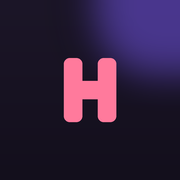
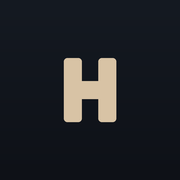
refactor: update design system, theme, and component structure

diff --git a/lib/views/sections/contact_section.dart b/lib/views/sections/contact_section.dart
@@ -1,11 +1,11 @@
 import 'package:flutter/material.dart';
-import 'package:haadiya_portfolio/widgets/app_button.dart';
-import 'package:haadiya_portfolio/core/constants.dart';
-import 'package:haadiya_portfolio/widgets/hover.dart';
-import 'package:haadiya_portfolio/viewmodels/nav_vm.dart';
-import 'package:haadiya_portfolio/core/responsive.dart';
-import 'package:haadiya_portfolio/widgets/reveal.dart';
-import 'package:haadiya_portfolio/core/theme.dart';
+import '../../core/constants.dart';
+import '../../core/responsive.dart';
+import '../../core/theme.dart';
+import '../../viewmodels/nav_vm.dart';
+import '../../widgets/app_button.dart';
+import '../../widgets/pressable.dart';
+import '../../widgets/reveal.dart';
 
 class ContactSection extends StatelessWidget {
   const ContactSection({super.key});
@@ -18,20 +18,20 @@ class ContactSection extends StatelessWidget {
             child: Column(crossAxisAlignment: CrossAxisAlignment.start, children: [
           Text(K.contactTitle, style: head(context, context.mob ? 40 : 84)),
           const SizedBox(height: 36),
-          Hover((h) => GestureDetector(
+          Pressable(
               onTap: openMail,
-              child: AnimatedDefaultTextStyle(
+              builder: (h, f) => AnimatedDefaultTextStyle(
                   duration: K.ms,
-                  style: head(context, context.mob ? 22 : 36, h ? p.accent : p.ink).copyWith(decoration: TextDecoration.underline, decorationColor: h ? p.accent : p.muted),
-                  child: const Text(K.email)))),
+                  style: head(context, context.mob ? 24 : 36, h || f ? p.accent : p.ink).copyWith(decoration: TextDecoration.underline, decorationColor: h || f ? p.accent : p.muted),
+                  child: const Text(K.email))),
           const SizedBox(height: 32),
-          Wrap(spacing: 14, runSpacing: 14, children: [
+          Wrap(spacing: 16, runSpacing: 16, children: [
             AppButton('LinkedIn', () => openUrl(K.linkedin), filled: false),
             AppButton('GitHub', () => openUrl(K.github), filled: false),
           ]),
           const SizedBox(height: 80),
           Divider(color: p.line),
-          Padding(padding: const EdgeInsets.symmetric(vertical: 20), child: Text(K.footer, style: TextStyle(color: p.muted))),
+          Padding(padding: const EdgeInsets.symmetric(vertical: 24), child: Text(K.footer, style: TextStyle(color: p.muted))),
         ])));
   }
 }

diff --git a/lib/widgets/chips.dart b/lib/widgets/chips.dart
@@ -1,20 +1,20 @@
 import 'package:flutter/material.dart';
-import 'package:haadiya_portfolio/core/constants.dart';
-import 'package:haadiya_portfolio/core/theme.dart';
+import '../core/constants.dart';
+import '../core/theme.dart';
 import 'hover.dart';
 
-/// Quiet outlined tag used on cards.
+/// Quiet outlined tag used on cards, set in the mono face.
 class TagChip extends StatelessWidget {
   final String label;
   const TagChip(this.label, {super.key});
   @override
   Widget build(BuildContext context) => Container(
-      padding: const EdgeInsets.symmetric(horizontal: 12, vertical: 6),
-      decoration: BoxDecoration(borderRadius: BorderRadius.circular(20), border: Border.all(color: context.p.line)),
-      child: Text(label, style: TextStyle(fontSize: 13, color: context.p.soft)));
+      padding: const EdgeInsets.symmetric(horizontal: 12, vertical: 8),
+      decoration: BoxDecoration(borderRadius: BorderRadius.circular(8), border: Border.all(color: context.p.line)),
+      child: Text(label, style: mono(context, 12, context.p.soft)));
 }
 
-/// Larger chip that lights up on hover, used in the stack section.
+/// Larger chip for the stack section: a surface step and a clearer hairline on hover.
 class SkillChip extends StatelessWidget {
   final String label;
   const SkillChip(this.label, {super.key});
@@ -23,9 +23,11 @@ class SkillChip extends StatelessWidget {
     final p = context.p;
     return Hover((h) => AnimatedContainer(
         duration: K.ms,
-        transform: Matrix4.translationValues(0, h ? -3 : 0, 0),
-        padding: const EdgeInsets.symmetric(horizontal: 20, vertical: 12),
-        decoration: BoxDecoration(color: h ? p.accent : p.card, borderRadius: BorderRadius.circular(40), border: Border.all(color: h ? p.accent : p.line)),
-        child: Text(label, style: TextStyle(fontWeight: FontWeight.w600, color: h ? p.onAccent : p.ink))));
+        padding: const EdgeInsets.symmetric(horizontal: 16, vertical: 12),
+        decoration: BoxDecoration(
+            color: h ? Color.alphaBlend(p.ink.withOpacity(.05), p.card) : p.card,
+            borderRadius: BorderRadius.circular(10),
+            border: Border.all(color: h ? p.muted.withOpacity(.6) : p.line)),
+        child: Text(label, style: TextStyle(fontWeight: FontWeight.w500, color: p.ink))));
   }
 }

diff --git a/lib/core/constants.dart b/lib/core/constants.dart
@@ -9,9 +9,8 @@ class K {
   static const email = 'haadiyact@gmail.com';
   static const linkedin = 'https://www.linkedin.com/in/haadiya-ct-47775621b/';
   static const github = 'https://github.com/haadiyaa';
-  static const tagline = 'I build Flutter apps that stay fast and usable offline, from restaurant ERPs to live analytics dashboards.';
-  static const contactTitle = 'Let\'s build something\npeople enjoy using.';
-  static const footer = 'Haadiya CT, Kozhikode, Kerala. Built with Flutter.';
+  static const contactTitle = 'Need a Flutter developer?\nGet in touch';
+  static const footer = 'Haadiya CT, Kozhikode, Kerala. Built with Flutter';
   static const introLines = [
     "BUILDING *CROSS-PLATFORM* SCALABLE APPLICATIONS.",
     'FOCUSED ON CLEAN CODE, SEAMLESS INTEGRATIONS, AND INTUITIVE USER EXPERIENCES.',
@@ -46,12 +45,14 @@ class K {
 
   static const mobileBp = 700.0, wideBp = 900.0, tabletBp = 1100.0, maxWidth = 1280.0, gap = 24.0;
 
+  // One neutral ramp tinted toward the navy of her blazer, warm off-white text from her hijab,
+  // and a single muted sand accent taken from the same fabric. Used rarely.
   static const dark = Palette(
-      bg: Color(0xFF130F1C), card: Color(0xFF1C1628), ink: Color(0xFFF4EEFF), soft: Color(0xFFC9BEDD),
-      muted: Color(0xFF9A8FB3), line: Color(0x1FFFFFFF), accent: Color(0xFFFF7A9C), onAccent: Color(0xFF1A0B12), glow: Color(0xFF7C5CFF));
+      bg: Color(0xFF0E1117), card: Color(0xFF151A22), ink: Color(0xFFECE9E2), soft: Color(0xFFB4B9C4),
+      muted: Color(0xFF858B99), line: Color(0x1AECE9E2), accent: Color(0xFFD8C3A5), onAccent: Color(0xFF17130B), glow: Color(0xFF1B2436));
   static const light = Palette(
-      bg: Color(0xFFF7F4FC), card: Color(0xFFFFFFFF), ink: Color(0xFF1B1230), soft: Color(0xFF4A3F63),
-      muted: Color(0xFF7A6F92), line: Color(0x1F1B1230), accent: Color(0xFFD81B60), onAccent: Color(0xFFFFFFFF), glow: Color(0xFFFFA8C5));
+      bg: Color(0xFFF4F2EE), card: Color(0xFFFFFFFF), ink: Color(0xFF15181F), soft: Color(0xFF444A57),
+      muted: Color(0xFF6B7180), line: Color(0x1A15181F), accent: Color(0xFF7E5F2B), onAccent: Color(0xFFFFFFFF), glow: Color(0xFFDDE2EC));
 
   static const stats = [Stat('3+', 'years shipping Flutter'), Stat('5+', 'apps built'), Stat('4', 'platforms, one codebase')];
 

diff --git a/lib/widgets/hero_intro.dart b/lib/widgets/hero_intro.dart
@@ -10,10 +10,8 @@ class HeroIntro extends StatelessWidget {
   const HeroIntro(this.progress, {super.key});
   @override
   Widget build(BuildContext context) {
-    final pal = context.p,
-        size = (context.w * .024).clamp(18.0, 34.0).toDouble();
-    final base = head(context, size, pal.ink.withOpacity(.92)).copyWith(
-        fontWeight: FontWeight.w500, height: 1.35, letterSpacing: -size * .01);
+    final pal = context.p, size = (context.w * .024).clamp(18.0, 34.0).toDouble();
+    final base = head(context, size, pal.ink.withOpacity(.92)).copyWith(fontWeight: FontWeight.w500, height: 1.35, letterSpacing: 0);
     return Padding(
         padding: EdgeInsets.symmetric(horizontal: context.pad),
         child: Column(mainAxisSize: MainAxisSize.min, children: [
@@ -25,20 +23,10 @@ class HeroIntro extends StatelessWidget {
                   child: Transform.translate(
                       offset: Offset(0, (1 - t) * 28),
                       child: Text.rich(
-                          TextSpan(
-                            style: TextStyle(fontSize: context.mob ? 20 : 30),
-                            children: [
-                              for (final (text, highlight)
-                                  in marked(K.introLines[i]))
-                                TextSpan(
-                                    text: text,
-                                    style: highlight
-                                        ? TextStyle(
-                                            color: pal.accent,
-                                            fontWeight: FontWeight.w700)
-                                        : null),
-                            ],
-                          ),
+                          TextSpan(children: [
+                            for (final (text, highlight) in marked(K.introLines[i]))
+                              TextSpan(text: text, style: highlight ? TextStyle(color: pal.accent, fontWeight: FontWeight.w600) : null),
+                          ]),
                           textAlign: TextAlign.center,
                           style: base)));
             }),

diff --git a/lib/widgets/app_button.dart b/lib/widgets/app_button.dart
@@ -1,8 +1,9 @@
 import 'package:flutter/material.dart';
-import 'package:haadiya_portfolio/core/constants.dart';
-import 'package:haadiya_portfolio/core/theme.dart';
-import 'hover.dart';
+import '../core/constants.dart';
+import '../core/theme.dart';
+import 'pressable.dart';
 
+/// Filled buttons use the off-white of the palette with dark text, outlined ones a hairline.
 class AppButton extends StatelessWidget {
   final String label;
   final VoidCallback onTap;
@@ -11,16 +12,16 @@ class AppButton extends StatelessWidget {
   @override
   Widget build(BuildContext context) {
     final p = context.p;
-    return Hover((h) => GestureDetector(
+    return Pressable(
         onTap: onTap,
-        child: AnimatedContainer(
+        builder: (h, f) => AnimatedContainer(
             duration: K.ms,
-            padding: const EdgeInsets.symmetric(horizontal: 24, vertical: 15),
-            transform: Matrix4.translationValues(0, h ? -3 : 0, 0),
+            padding: const EdgeInsets.symmetric(horizontal: 24, vertical: 16),
+            transform: Matrix4.translationValues(0, h ? -2 : 0, 0),
             decoration: BoxDecoration(
-                color: filled ? (h ? p.ink : p.accent) : Colors.transparent,
-                borderRadius: BorderRadius.circular(40),
-                border: Border.all(color: filled ? Colors.transparent : (h ? p.accent : p.line))),
-            child: Text(label, style: TextStyle(fontWeight: FontWeight.w600, color: filled ? (h ? p.bg : p.onAccent) : p.ink)))));
+                color: filled ? (h ? p.soft : p.ink) : Colors.transparent,
+                borderRadius: BorderRadius.circular(10),
+                border: Border.all(color: f ? p.accent : (filled ? Colors.transparent : (h ? p.muted : p.line)), width: f ? 2 : 1)),
+            child: Text(label, style: TextStyle(fontWeight: FontWeight.w500, color: filled ? p.bg : p.ink))));
   }
 }

diff --git a/lib/widgets/timeline_item.dart b/lib/widgets/timeline_item.dart
@@ -1,7 +1,7 @@
 import 'package:flutter/material.dart';
-import 'package:haadiya_portfolio/models/models.dart';
-import 'package:haadiya_portfolio/core/responsive.dart';
-import 'package:haadiya_portfolio/core/theme.dart';
+import '../core/responsive.dart';
+import '../core/theme.dart';
+import '../models/models.dart';
 
 class TimelineItem extends StatelessWidget {
   final Job job;
@@ -11,21 +11,21 @@ class TimelineItem extends StatelessWidget {
   Widget build(BuildContext context) {
     final p = context.p;
     return Container(
-        margin: const EdgeInsets.only(left: 6),
+        margin: const EdgeInsets.only(left: 8),
         padding: const EdgeInsets.only(left: 32, bottom: 48),
         decoration: BoxDecoration(border: Border(left: BorderSide(color: p.line))),
         child: Stack(clipBehavior: Clip.none, children: [
           Positioned(
-              left: -39, top: 6,
+              left: -40, top: 4,
               child: Container(
-                  width: 14, height: 14,
+                  width: 16, height: 16,
                   decoration: BoxDecoration(
                       shape: BoxShape.circle,
                       color: highlight ? p.accent : p.bg,
                       border: Border.all(color: highlight ? p.accent : p.muted, width: 2),
-                      boxShadow: highlight ? [BoxShadow(color: p.accent.withValues(alpha: .5), blurRadius: 14)] : []))),
+))),
           Column(crossAxisAlignment: CrossAxisAlignment.start, children: [
-            Text(job.when, style: TextStyle(color: p.accent, fontWeight: FontWeight.w600)),
+            Text(job.when, style: mono(context, 14)),
             const SizedBox(height: 8),
             Text(job.role, style: head(context, context.mob ? 24 : 30)),
             const SizedBox(height: 4),

diff --git a/lib/widgets/project_card.dart b/lib/widgets/project_card.dart
@@ -20,18 +20,18 @@ class ProjectCard extends StatelessWidget {
         child: Hover((h) => AnimatedContainer(
             duration: K.ms,
             curve: Curves.easeOut,
-            transform: Matrix4.translationValues(0, h ? -6 : 0, 0),
+            transform: Matrix4.translationValues(0, h ? -4 : 0, 0),
             height: height ?? context.cardH,
             padding: EdgeInsets.all(context.mob ? 24 : 32),
             decoration: BoxDecoration(
-                color: p.card,
-                borderRadius: BorderRadius.circular(28),
-                border: Border.all(color: h ? p.accent.withOpacity(.6) : p.line),
-                boxShadow: h ? [BoxShadow(color: p.accent.withOpacity(.12), blurRadius: 60)] : []),
+                // Hover is a small surface step and a clearer hairline. No glow.
+                color: h ? Color.alphaBlend(p.ink.withOpacity(.03), p.card) : p.card,
+                borderRadius: BorderRadius.circular(16),
+                border: Border.all(color: h ? p.muted.withOpacity(.5) : p.line)),
             child: Column(crossAxisAlignment: CrossAxisAlignment.start, children: [
               Row(mainAxisAlignment: MainAxisAlignment.spaceBetween, children: [
-                Text(project.kind, style: TextStyle(color: p.accent, fontWeight: FontWeight.w600)),
-                AnimatedRotation(turns: h ? -.125 : 0, duration: K.ms, child: Icon(Icons.arrow_forward, color: h ? p.accent : p.muted)),
+                Text(project.kind, style: mono(context, 13)),
+                AnimatedRotation(turns: h ? -.125 : 0, duration: K.ms, child: Icon(Icons.arrow_forward, size: 20, color: h ? p.accent : p.muted)),
               ]),
               const SizedBox(height: 44),
               Text(project.name, style: head(context, 32)),

diff --git a/lib/widgets/backdrop.dart b/lib/widgets/backdrop.dart
@@ -1,6 +1,6 @@
 import 'dart:math' as math;
 import 'package:flutter/material.dart';
-import 'package:haadiya_portfolio/core/theme.dart';
+import '../core/theme.dart';
 
 class _Orbs extends CustomPainter {
   final double t;
@@ -11,8 +11,8 @@ class _Orbs extends CustomPainter {
     void orb(Offset o, double r, Color col) => c.drawCircle(o, r,
         Paint()..shader = RadialGradient(colors: [col, Colors.transparent]).createShader(Rect.fromCircle(center: o, radius: r)));
     final k = t * 2 * math.pi;
-    orb(Offset(s.width * .82 + math.cos(k) * 90, s.height * .18 + math.sin(k) * 60), 440, a.withValues(alpha: .14));
-    orb(Offset(s.width * .08 + math.sin(k) * 70, s.height * .5 + math.cos(k) * 90), 380, b.withValues(alpha: .18));
+    orb(Offset(s.width * .82 + math.cos(k) * 90, s.height * .18 + math.sin(k) * 60), 440, a.withOpacity(.07));
+    orb(Offset(s.width * .08 + math.sin(k) * 70, s.height * .5 + math.cos(k) * 90), 380, b.withOpacity(.7));
   }
 
   @override
@@ -25,7 +25,7 @@ class _Glow extends CustomPainter {
   _Glow(this.o, this.col);
   @override
   void paint(Canvas c, Size s) => c.drawCircle(o, 260,
-      Paint()..shader = RadialGradient(colors: [col.withValues(alpha: .10), Colors.transparent]).createShader(Rect.fromCircle(center: o, radius: 260)));
+      Paint()..shader = RadialGradient(colors: [col.withOpacity(.05), Colors.transparent]).createShader(Rect.fromCircle(center: o, radius: 260)));
   @override
   bool shouldRepaint(_Glow o) => true;
 }

diff --git a/lib/views/sections/hero_section.dart b/lib/views/sections/hero_section.dart
@@ -1,6 +1,5 @@
 import 'dart:math' as math;
 import 'package:flutter/material.dart';
-import 'package:haadiya_portfolio/widgets/particle_character.dart';
 import '../../core/constants.dart';
 import '../../core/responsive.dart';
 import '../../viewmodels/hero_vm.dart';
@@ -8,6 +7,7 @@ import '../../widgets/floating_character.dart';
 import '../../widgets/hero_intro.dart';
 import '../../widgets/hero_name.dart';
 import '../../widgets/hero_word.dart';
+import '../../widgets/particle_character.dart';
 import '../../widgets/scroll_hint.dart';
 
 /// The hero stays pinned for a while as you scroll: the character lifts away and the intro
@@ -74,7 +74,7 @@ class HeroSection extends StatelessWidget {
                                             child: FloatingCharacter(loop, charH,
                                                 shadowOpacity: _fade(intro.value, .75, 1) * (1 - phase(p, 0, .3)),
                                                 image: ParticleCharacter(width: charH * K.characterAspect, height: charH, lift: p, mouse: mouse)))),
-                                const SizedBox(height: 14),
+                                const SizedBox(height: 16),
                                 Opacity(opacity: _fade(intro.value, .75, 1), child: HeroName(K.name.toUpperCase())),
                               ]))),
                       if (!mob)

diff --git a/lib/views/sections/experience_section.dart b/lib/views/sections/experience_section.dart
@@ -1,17 +1,17 @@
 import 'package:flutter/material.dart';
 import 'package:flutter_riverpod/flutter_riverpod.dart';
-import 'package:haadiya_portfolio/core/constants.dart';
-import 'package:haadiya_portfolio/viewmodels/portfolio_vm.dart';
-import 'package:haadiya_portfolio/widgets/reveal.dart';
-import 'package:haadiya_portfolio/widgets/section_block.dart';
-import 'package:haadiya_portfolio/widgets/timeline_item.dart';
+import '../../core/constants.dart';
+import '../../viewmodels/portfolio_vm.dart';
+import '../../widgets/reveal.dart';
+import '../../widgets/section_block.dart';
+import '../../widgets/timeline_item.dart';
 
 class ExperienceSection extends ConsumerWidget {
   const ExperienceSection({super.key});
   @override
   Widget build(BuildContext context, WidgetRef ref) {
     final jobs = ref.watch(portfolioProvider).jobs;
-    return SectionBlock(0, K.navLinks[0], 'Where I have been building.', Column(children: [
+    return SectionBlock(0, K.navLinks[0], 'Where I have been building', Column(children: [
       for (var i = 0; i < jobs.length; i++) Reveal(delay: i * 120, child: TimelineItem(jobs[i], highlight: i == 0)),
     ]));
   }

diff --git a/lib/widgets/pressable.dart b/lib/widgets/pressable.dart
@@ -1,0 +1,25 @@
+import 'package:flutter/material.dart';
+
+/// A tappable area that also works with the keyboard: Tab to focus it, Enter or Space to press it.
+/// The builder gets whether it is hovered and whether it has keyboard focus.
+class Pressable extends StatefulWidget {
+  final VoidCallback onTap;
+  final Widget Function(bool hovered, bool focused) builder;
+  const Pressable({super.key, required this.onTap, required this.builder});
+  @override
+  State<Pressable> createState() => _PressableState();
+}
+
+class _PressableState extends State<Pressable> {
+  bool hovered = false, focused = false;
+  @override
+  Widget build(BuildContext context) => FocusableActionDetector(
+      mouseCursor: SystemMouseCursors.click,
+      onShowHoverHighlight: (v) => setState(() => hovered = v),
+      onShowFocusHighlight: (v) => setState(() => focused = v),
+      actions: {ActivateIntent: CallbackAction<ActivateIntent>(onInvoke: (_) {
+        widget.onTap();
+        return null;
+      })},
+      child: GestureDetector(onTap: widget.onTap, child: widget.builder(hovered, focused)));
+}

diff --git a/lib/core/theme.dart b/lib/core/theme.dart
@@ -1,6 +1,6 @@
 import 'package:flutter/material.dart';
 import 'package:google_fonts/google_fonts.dart';
-import 'package:haadiya_portfolio/core/constants.dart';
+import 'constants.dart';
 
 /// Colors that change between light and dark mode.
 @immutable
@@ -30,5 +30,10 @@ extension ThemeX on BuildContext {
   Palette get p => Theme.of(this).extension<Palette>()!;
 }
 
+/// Display and headings. Weight 600 at most; tight tracking only on large sizes.
 TextStyle head(BuildContext c, double s, [Color? color]) => GoogleFonts.bricolageGrotesque(
-    fontSize: s, fontWeight: FontWeight.w700, height: 1.05, letterSpacing: -s * .03, color: color ?? c.p.ink);
+    fontSize: s, fontWeight: FontWeight.w600, height: 1.05, letterSpacing: s >= 32 ? -s * .03 : 0, color: color ?? c.p.ink);
+
+/// Meta text: dates, project types, tags.
+TextStyle mono(BuildContext c, double s, [Color? color]) =>
+    GoogleFonts.jetBrainsMono(fontSize: s, fontWeight: FontWeight.w400, height: 1.4, color: color ?? c.p.muted);
